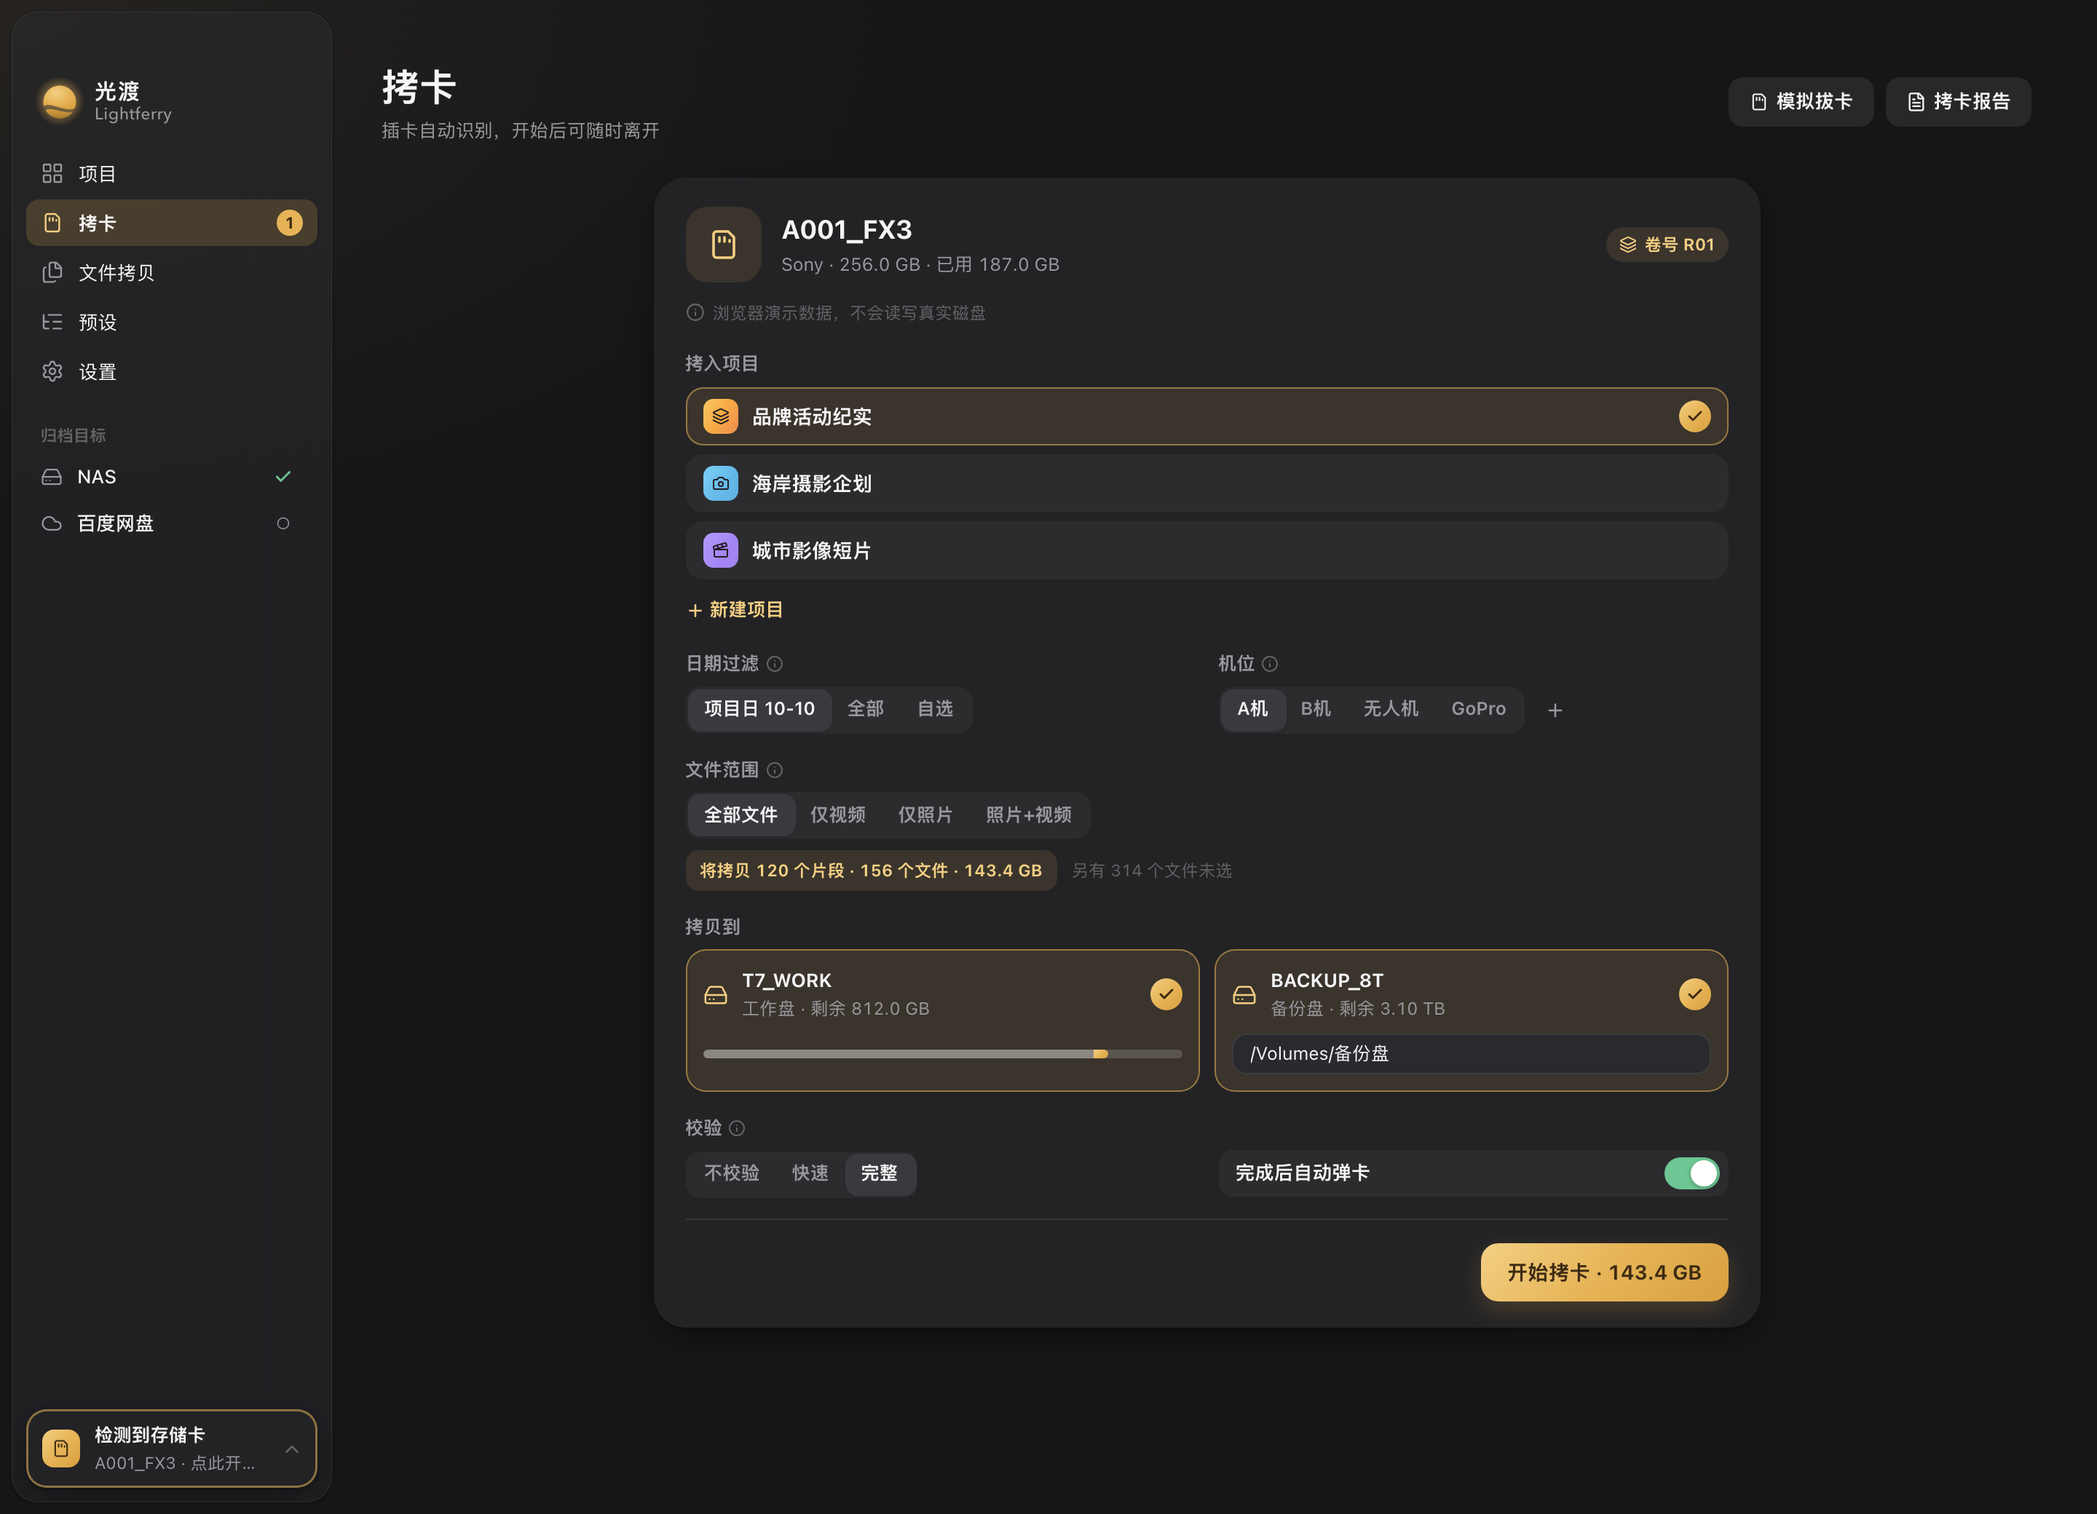
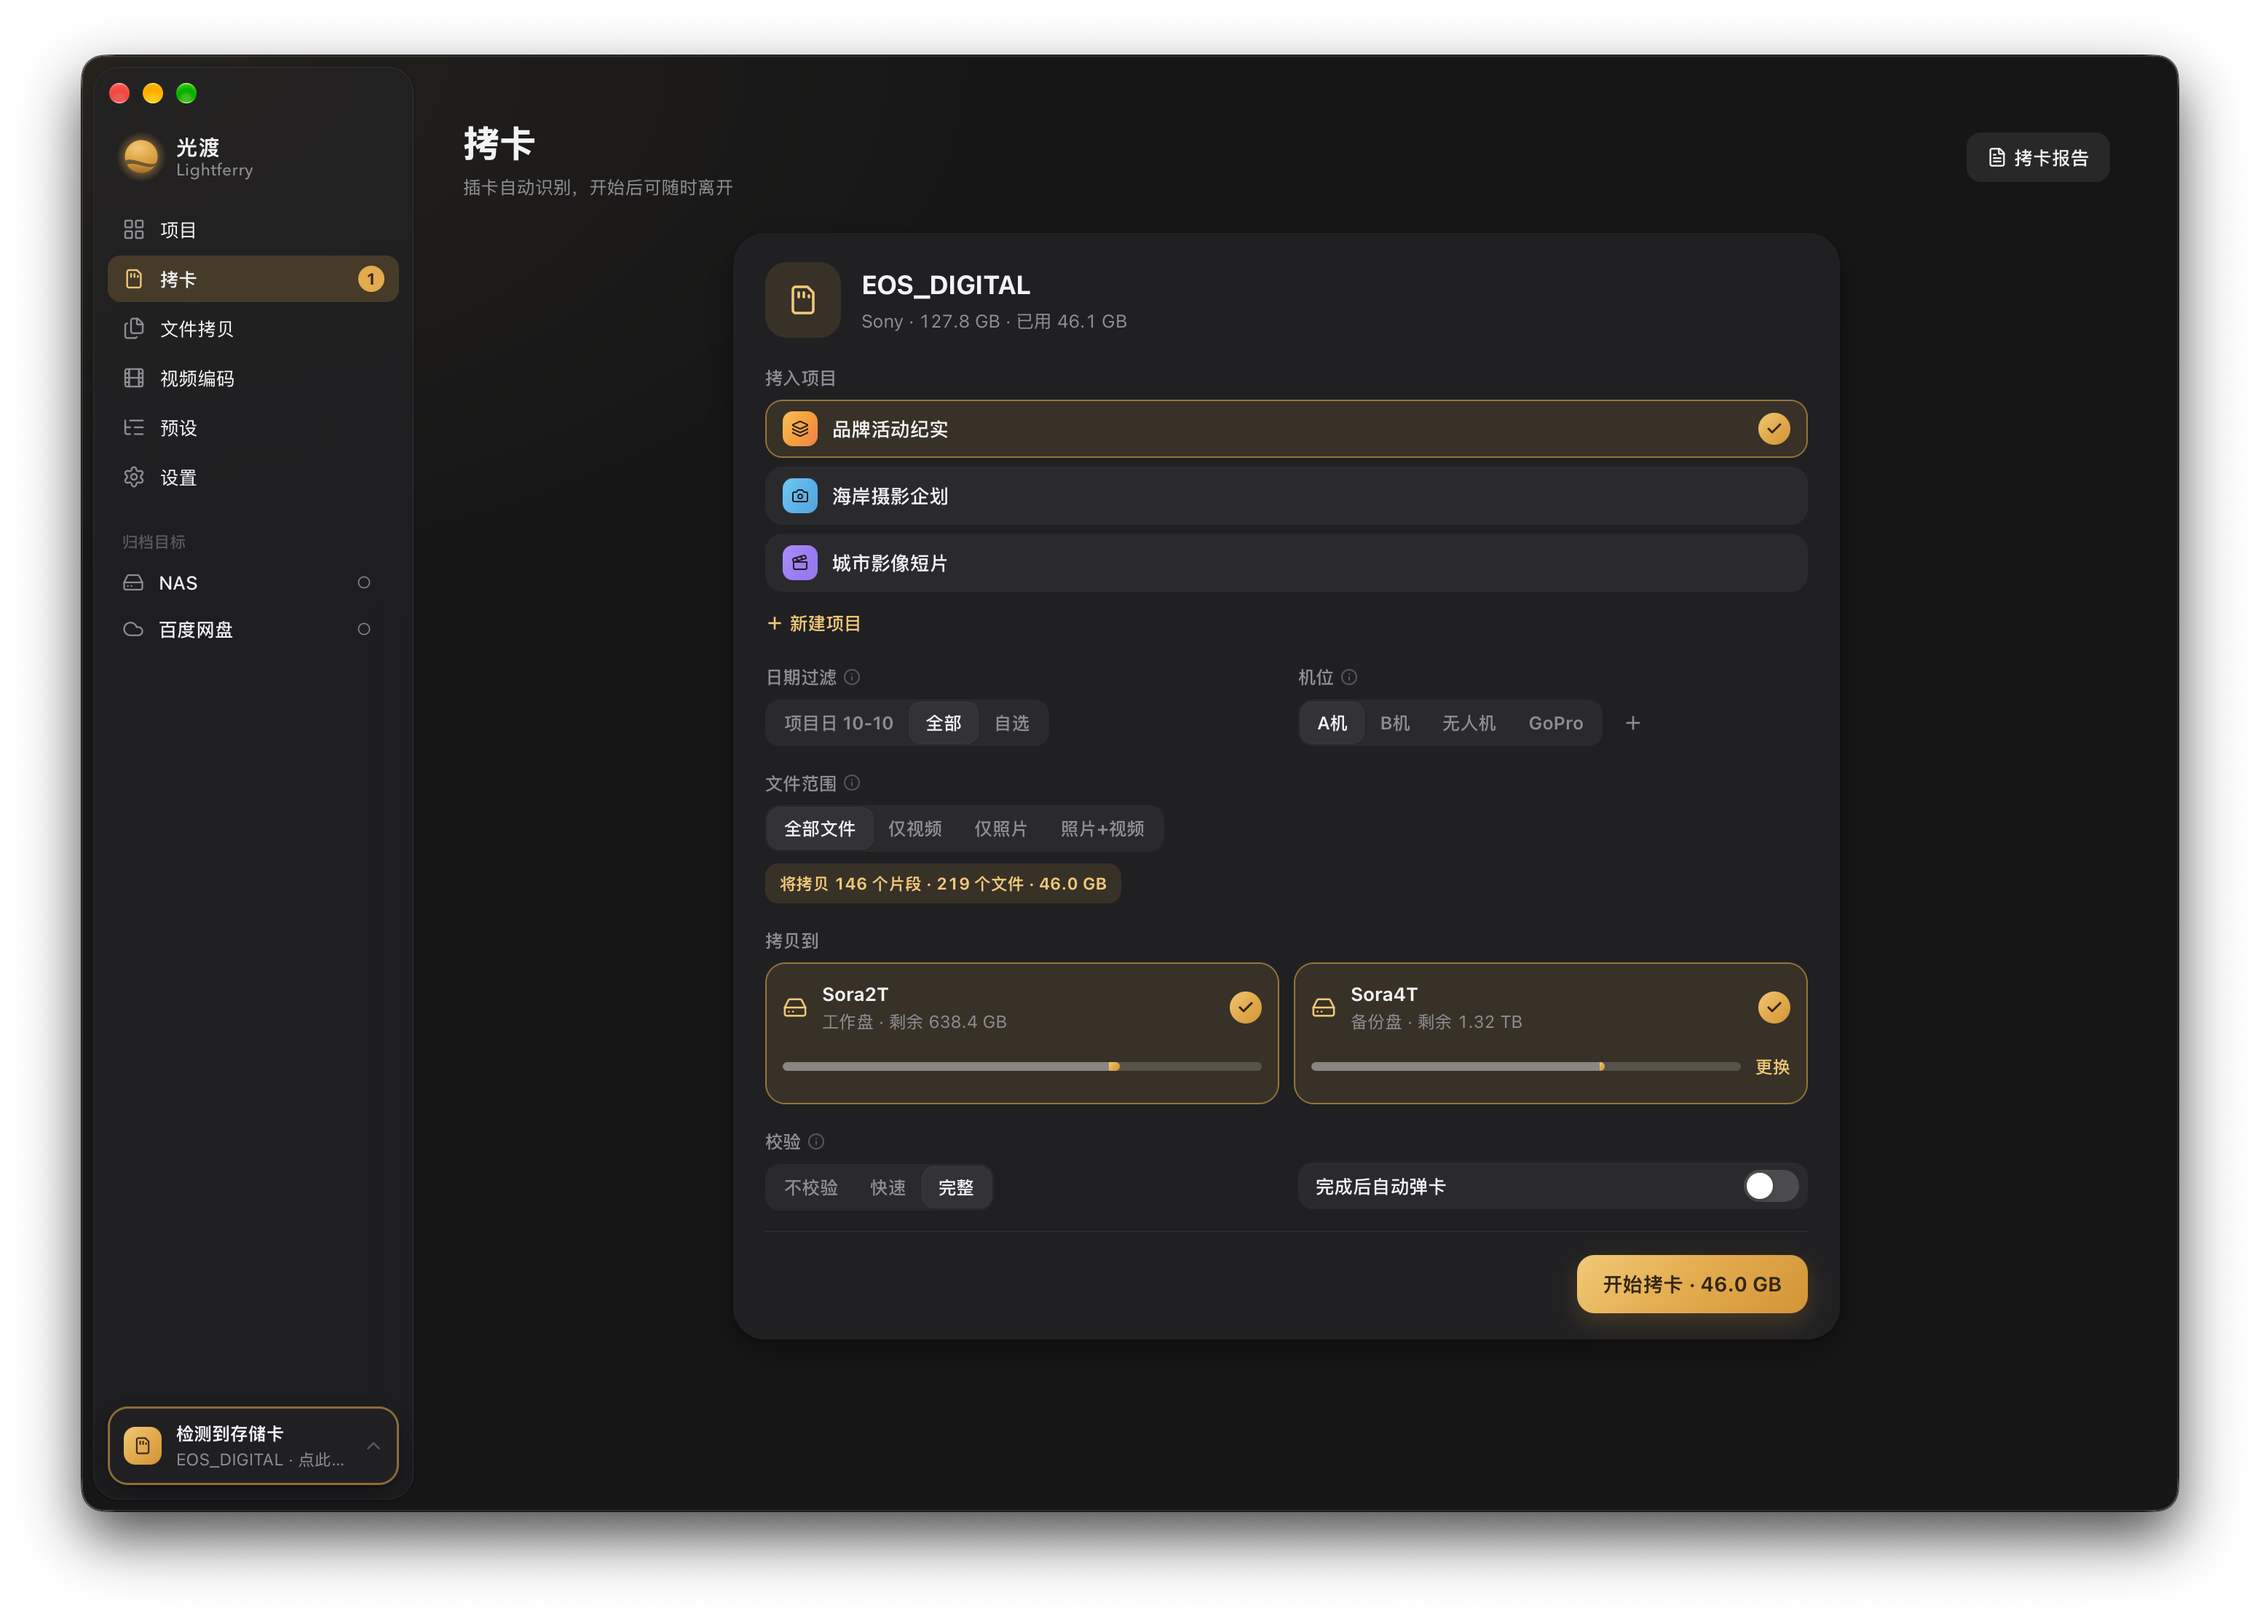
项目页：首页改用 App 图标组合并换成 Mac 实机窗口截图
首页的平面标志换成 App 图标版堆叠组合，随 GitHub 浅深主题切换；
三个页面的截图换成 Mac 上的实际窗口截图（四种语言，深色主题，带
系统窗口阴影），说明文字相应更新。

diff --git a/README.ja.md b/README.ja.md
@@ -2,8 +2,8 @@
 
 <p align="center">
   <picture>
-    <source media="(prefers-color-scheme: dark)" srcset="./brand/wordmark-stacked-white.svg">
-    <img src="./brand/wordmark-stacked-ink.svg" width="220" alt="光渡 Lightferry">
+    <source media="(prefers-color-scheme: dark)" srcset="./brand/lockup-icon-white.svg">
+    <img src="./brand/lockup-icon-ink.svg" width="240" alt="光渡 Lightferry">
   </picture>
 </p>
 
@@ -20,9 +20,9 @@
 
 <p align="center"><sub>無料ベータ版 · macOS 13 以降 · 简体中文 / 繁體中文 / English / 日本語 · ライト／ダークテーマ</sub></p>
 
-<img src="./screenshot-ingest-ja.png" alt="光渡の取り込み画面：カメラカード A001_FX3 を検出し、プロジェクト「ブランドイベント記録」を選択、作業用とバックアップへ同時に書き込み、完全検証を選択">
+<img src="./screenshot-ingest-ja.png" alt="光渡の取り込み画面：カメラカード EOS_DIGITAL を検出し、デモプロジェクトを選択、作業用とバックアップへ同時に書き込み、完全検証を選択">
 
-<p align="center"><sub>新しいインターフェースのブラウザーデモ、ダークテーマ。カード、プロジェクト、パスはデモデータで、実際のコピー結果ではありません。</sub></p>
+<p align="center"><sub>Mac 上の実際のウィンドウキャプチャ、ダークテーマ。プロジェクト、フォルダー、カードの内容はデモ用で、コピーは開始していません。デモプロジェクト名は中国語です。</sub></p>
 
 ## コピー・検証・整理
 
@@ -89,13 +89,13 @@
 
 ### プロジェクト
 
-<img src="./screenshot-projects-ja.png" alt="光渡のプロジェクト画面：3 件のデモプロジェクトのカードに種類、撮影日、素材量、取り込み回数、二重バックアップと検証済みの表示">
+<img src="./screenshot-projects-ja.png" alt="光渡のプロジェクト画面：3 件のデモプロジェクトのカードに種類、撮影日、素材量を表示">
 
 プロジェクトごとに 1 枚のカード：種類、撮影日、素材量、取り込み回数、二重バックアップと検証済みの表示。進行中・完了・アーカイブ済み・ゴミ箱で絞り込み、グループ分けもできます。
 
 ### ファイルコピー
 
-<img src="./screenshot-copy-ja.png" alt="光渡のファイルコピー画面：デモの元フォルダー 1 件、パス付きの保存先 2 件、完全検証を選択">
+<img src="./screenshot-copy-ja.png" alt="光渡のファイルコピー画面：デモの元フォルダー 1 件、別々のドライブにある保存先 2 件、完全検証を選択">
 
 ファイルとフォルダーを階層そのままに一つ以上の場所へコピー。開始前に保存先ごとの空き容量と必要容量を表示し、コピー後に一つずつ検証します。
 
@@ -103,7 +103,7 @@
 
 取り込み、ファイルコピー、素材追加、アーカイブが終わると、作業レポートでプロジェクト、日付、種類、状態から探し、オフライン HTML または複数ページの PDF に書き出せます。過去の記録にない項目は「未記録」と示し、成功と推定しません。
 
-<p><sub>いずれも新しいインターフェースのブラウザーデモ。プロジェクト、ファイル、パスはデモデータです。</sub></p>
+<p><sub>いずれも Mac 上の実際のウィンドウキャプチャ。プロジェクト、ファイル、パスはデモ用です。</sub></p>
 
 ## 検証の種類
 

diff --git a/README.en.md b/README.en.md
@@ -2,8 +2,8 @@
 
 <p align="center">
   <picture>
-    <source media="(prefers-color-scheme: dark)" srcset="./brand/wordmark-stacked-white.svg">
-    <img src="./brand/wordmark-stacked-ink.svg" width="220" alt="Lightferry 光渡">
+    <source media="(prefers-color-scheme: dark)" srcset="./brand/lockup-icon-white.svg">
+    <img src="./brand/lockup-icon-ink.svg" width="240" alt="Lightferry 光渡">
   </picture>
 </p>
 
@@ -20,9 +20,9 @@
 
 <p align="center"><sub>Free beta · macOS 13 or later · 简体中文 / 繁體中文 / English / 日本語 · Light and dark themes</sub></p>
 
-<img src="./screenshot-ingest-en.png" alt="Lightferry ingest screen: camera card A001_FX3 detected, project Brand Event Coverage selected, writing to the working disk and backup disk with full verification">
+<img src="./screenshot-ingest-en.png" alt="Lightferry ingest screen: camera card EOS_DIGITAL detected, a demo project selected, writing to the working disk and backup disk with full verification">
 
-<p align="center"><sub>Browser demo of the new interface, dark theme. The card, projects, and paths are demo data and do not represent real copy results.</sub></p>
+<p align="center"><sub>Actual window capture on a Mac, dark theme. The projects, folders, and card contents are for demonstration, and no copy was started. Demo project names are in Chinese.</sub></p>
 
 ## Copy. Verify. Organize.
 
@@ -89,13 +89,13 @@
 
 ### Project workspace
 
-<img src="./screenshot-projects-en.png" alt="Lightferry projects screen: three demo project cards showing type, shoot date, media size, ingest count, and dual-backup and verified badges">
+<img src="./screenshot-projects-en.png" alt="Lightferry projects screen: three demo project cards showing type, shoot date, and media size">
 
 One card per project: type, shoot date, media size, ingest count, and whether it is dual-backed and verified. Filter by active, completed, archived, and trash, or group projects.
 
 ### File copy
 
-<img src="./screenshot-copy-en.png" alt="Lightferry file copy screen: one demo source folder, two destinations with paths, and full verification selected">
+<img src="./screenshot-copy-en.png" alt="Lightferry file copy screen: one demo source folder, two destinations on separate drives, and full verification selected">
 
 Copy files and folders as they are to one or more locations, keeping the folder structure. Free and required space are shown for each destination before you start, and every copy is verified afterwards.
 
@@ -103,7 +103,7 @@ Copy files and folders as they are to one or more locations, keeping the folder 
 
 After an ingest, file copy, media import, or archive finishes, find it in task reports by project, date, type, and status, and export an offline HTML or multipage PDF. Missing fields in older records are marked as unknown rather than treated as success.
 
-<p><sub>All screenshots are browser demos of the new interface; projects, files, and paths are demo data.</sub></p>
+<p><sub>All screenshots are actual window captures on a Mac; projects, files, and paths are for demonstration.</sub></p>
 
 ## Verification levels
 

diff --git a/README.zh-TW.md b/README.zh-TW.md
@@ -2,8 +2,8 @@
 
 <p align="center">
   <picture>
-    <source media="(prefers-color-scheme: dark)" srcset="./brand/wordmark-stacked-white.svg">
-    <img src="./brand/wordmark-stacked-ink.svg" width="220" alt="光渡 Lightferry">
+    <source media="(prefers-color-scheme: dark)" srcset="./brand/lockup-icon-white.svg">
+    <img src="./brand/lockup-icon-ink.svg" width="240" alt="光渡 Lightferry">
   </picture>
 </p>
 
@@ -20,9 +20,9 @@
 
 <p align="center"><sub>免費測試版 · macOS 13 及以上 · 简体中文 / 繁體中文 / English / 日本語 · 淺色與深色主題</sub></p>
 
-<img src="./screenshot-ingest-zh-TW.png" alt="光渡拷卡頁：辨識到記憶卡 A001_FX3，選取專案「品牌活動紀實」，同時寫入工作碟與備份碟，並選擇完整驗證">
+<img src="./screenshot-ingest-zh-TW.png" alt="光渡拷卡頁：辨識到記憶卡 EOS_DIGITAL，選取專案「品牌活动纪实」，同時寫入工作碟與備份碟，並選擇完整驗證">
 
-<p align="center"><sub>新版介面的瀏覽器演示截圖，深色主題；記憶卡、專案與路徑均為演示資料，不代表真實拷貝結果。</sub></p>
+<p align="center"><sub>Mac 上的實際視窗截圖，深色主題；專案、資料夾與記憶卡內容均為演示用，截圖時沒有開始拷貝。演示專案名稱為簡體中文。</sub></p>
 
 ## 拷貝 · 驗證 · 整理
 
@@ -89,13 +89,13 @@
 
 ### 專案工作台
 
-<img src="./screenshot-projects-zh-TW.png" alt="光渡專案頁：三個演示專案的卡片，顯示類型、拍攝日、素材量、拷卡次數，以及雙備份與已驗證標記">
+<img src="./screenshot-projects-zh-TW.png" alt="光渡專案頁：三個演示專案的卡片，顯示類型、拍攝日與素材量">
 
 每個專案一張卡片：類型、拍攝日、素材量與拷卡次數，以及是否雙備份、是否通過驗證。可依進行中、已完成、已封存與回收站篩選，也可以分組。
 
 ### 檔案拷貝
 
-<img src="./screenshot-copy-zh-TW.png" alt="光渡檔案拷貝頁：一個演示來源資料夾、兩個帶路徑的目的地，以及選取的完整驗證">
+<img src="./screenshot-copy-zh-TW.png" alt="光渡檔案拷貝頁：一個演示來源資料夾、兩個位於不同硬碟的目的地，以及選取的完整驗證">
 
 檔案與資料夾原樣拷到一個或多個位置，保留資料夾層級；開始前顯示每個目的地的剩餘空間與所需空間，拷完逐份驗證。
 
@@ -103,7 +103,7 @@
 
 拷卡、檔案拷貝、素材匯入與封存完成後，都能在工作報告裡依專案、日期、類型與狀態搜尋，並匯出離線 HTML 或多頁 PDF。舊紀錄缺少的欄位會標為「未記錄」，不會推定成功。
 
-<p><sub>以上均為新版介面的瀏覽器演示截圖；專案、檔案與路徑均為演示資料。</sub></p>
+<p><sub>以上均為 Mac 上的實際視窗截圖；專案、檔案與路徑均為演示用。</sub></p>
 
 ## 驗證方式
 

diff --git a/README.md b/README.md
@@ -2,8 +2,8 @@
 
 <p align="center">
   <picture>
-    <source media="(prefers-color-scheme: dark)" srcset="./brand/wordmark-stacked-white.svg">
-    <img src="./brand/wordmark-stacked-ink.svg" width="220" alt="光渡 Lightferry">
+    <source media="(prefers-color-scheme: dark)" srcset="./brand/lockup-icon-white.svg">
+    <img src="./brand/lockup-icon-ink.svg" width="240" alt="光渡 Lightferry">
   </picture>
 </p>
 
@@ -20,9 +20,9 @@
 
 <p align="center"><sub>免费内测 · macOS 13 及以上 · 简体中文 / 繁體中文 / English / 日本語 · 浅色与深色主题</sub></p>
 
-<img src="./screenshot-ingest-zh-CN.png" alt="光渡拷卡页：识别到存储卡 A001_FX3，选中项目「品牌活动纪实」，同时写入工作盘与备份盘，并选择完整校验">
+<img src="./screenshot-ingest-zh-CN.png" alt="光渡拷卡页：识别到存储卡 EOS_DIGITAL，选中项目「品牌活动纪实」，同时写入工作盘与备份盘，并选择完整校验">
 
-<p align="center"><sub>新版界面的浏览器演示截图，深色主题；存储卡、项目与路径均为演示数据，不代表真实拷贝结果。</sub></p>
+<p align="center"><sub>Mac 上的实际窗口截图，深色主题；项目、文件夹与存储卡内容均为演示用，截图时没有开始拷贝。</sub></p>
 
 ## 拷贝 · 校验 · 整理
 
@@ -89,13 +89,13 @@
 
 ### 项目工作台
 
-<img src="./screenshot-projects-zh-CN.png" alt="光渡项目页：三个演示项目的卡片，显示类型、拍摄日、素材量、拷卡次数，以及双备份与已校验标记">
+<img src="./screenshot-projects-zh-CN.png" alt="光渡项目页：三个演示项目的卡片，显示类型、拍摄日与素材量">
 
 每个项目一张卡片：类型、拍摄日、素材量与拷卡次数，以及是否双备份、是否通过校验。按进行中、已完成、已归档与回收站筛选，也可以分组。
 
 ### 文件拷贝
 
-<img src="./screenshot-copy-zh-CN.png" alt="光渡文件拷贝页：一个演示来源文件夹、两个带路径的目的地，以及选中的完整校验">
+<img src="./screenshot-copy-zh-CN.png" alt="光渡文件拷贝页：一个演示来源文件夹、两个位于不同硬盘的目的地，以及选中的完整校验">
 
 文件与文件夹原样拷到一个或多个位置，保留目录层级；开始前显示每个目的地的剩余空间与所需空间，拷完逐份校验。
 
@@ -103,7 +103,7 @@
 
 拷卡、文件拷贝、素材导入与归档完成后，都能在任务报告里按项目、日期、类型与状态查找，并导出离线 HTML 或多页 PDF。旧记录缺失的字段会标为「未记录」，不会推定成功。
 
-<p><sub>以上均为新版界面的浏览器演示截图；项目、文件与路径均为演示数据。</sub></p>
+<p><sub>以上均为 Mac 上的实际窗口截图；项目、文件与路径均为演示用。</sub></p>
 
 ## 校验方式
 
